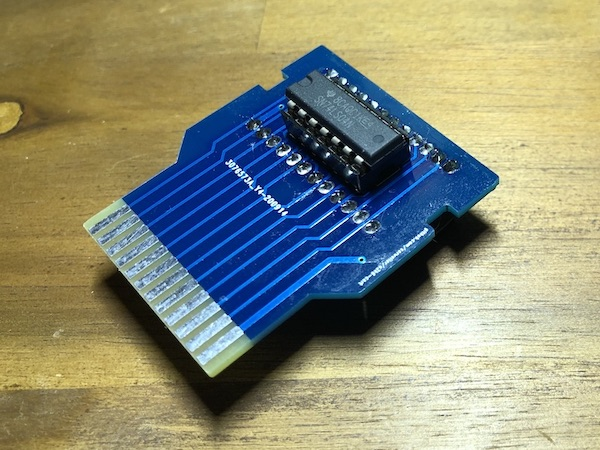
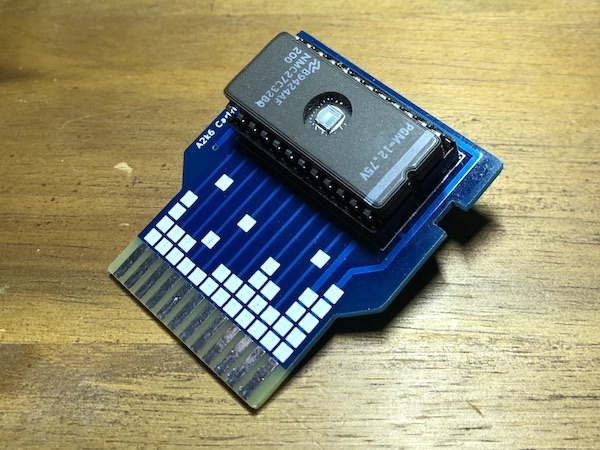
update README

diff --git a/README.md b/README.md
@@ -2,7 +2,11 @@
 
 A cartridge PCB for the Atari 2600 for housing a 2732 EPROM and a 74LS04 hex inverter IC.
 
-![a2k6 pcb back](images/pcb-back.jpg)
+![a2k6 pcb front](images/pcb-front.jpg)
+
+More photos:
+* [Back side with 74LS04]((images/pcb-back.jpg))
+* [Inserted in an original Atari cartridge case]((images/pcb-back.jpg))
 
 ## Producing a PCB
 
